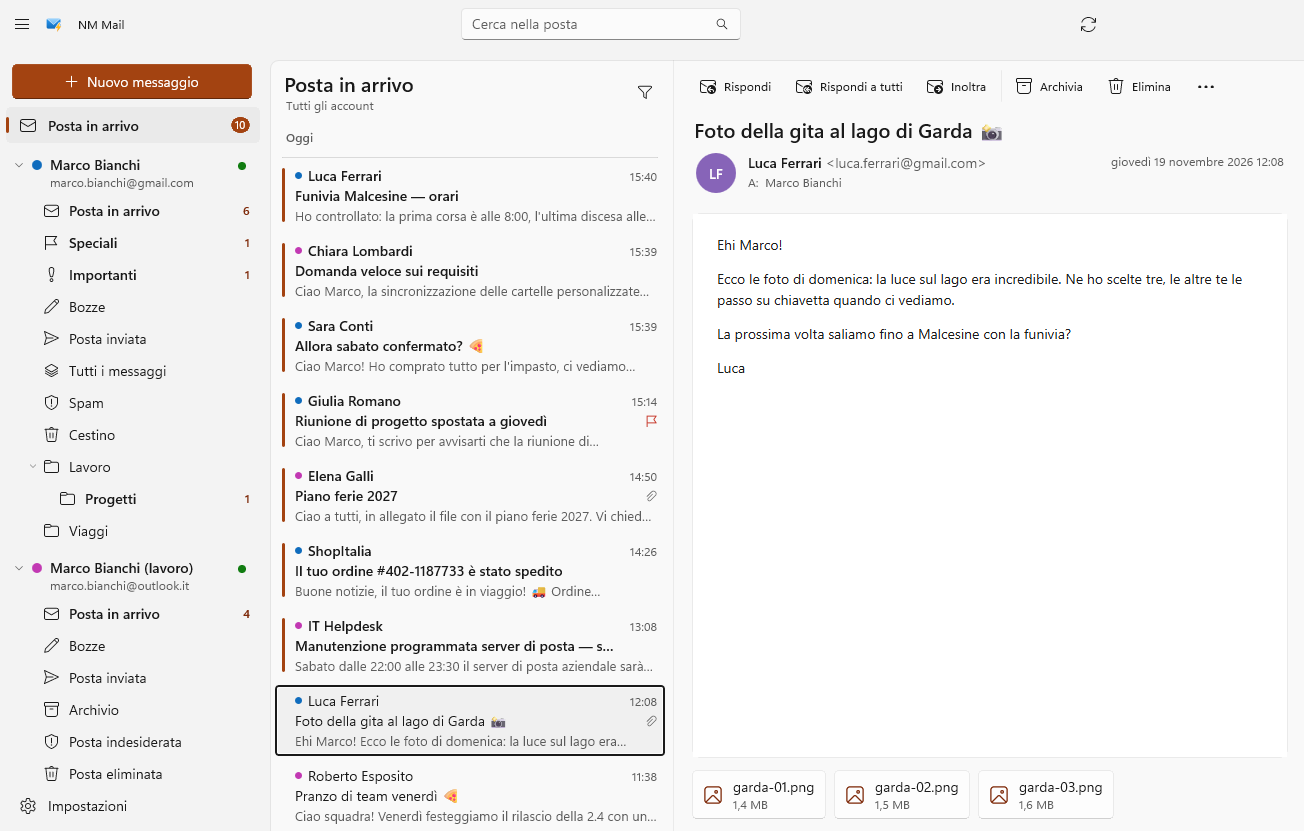
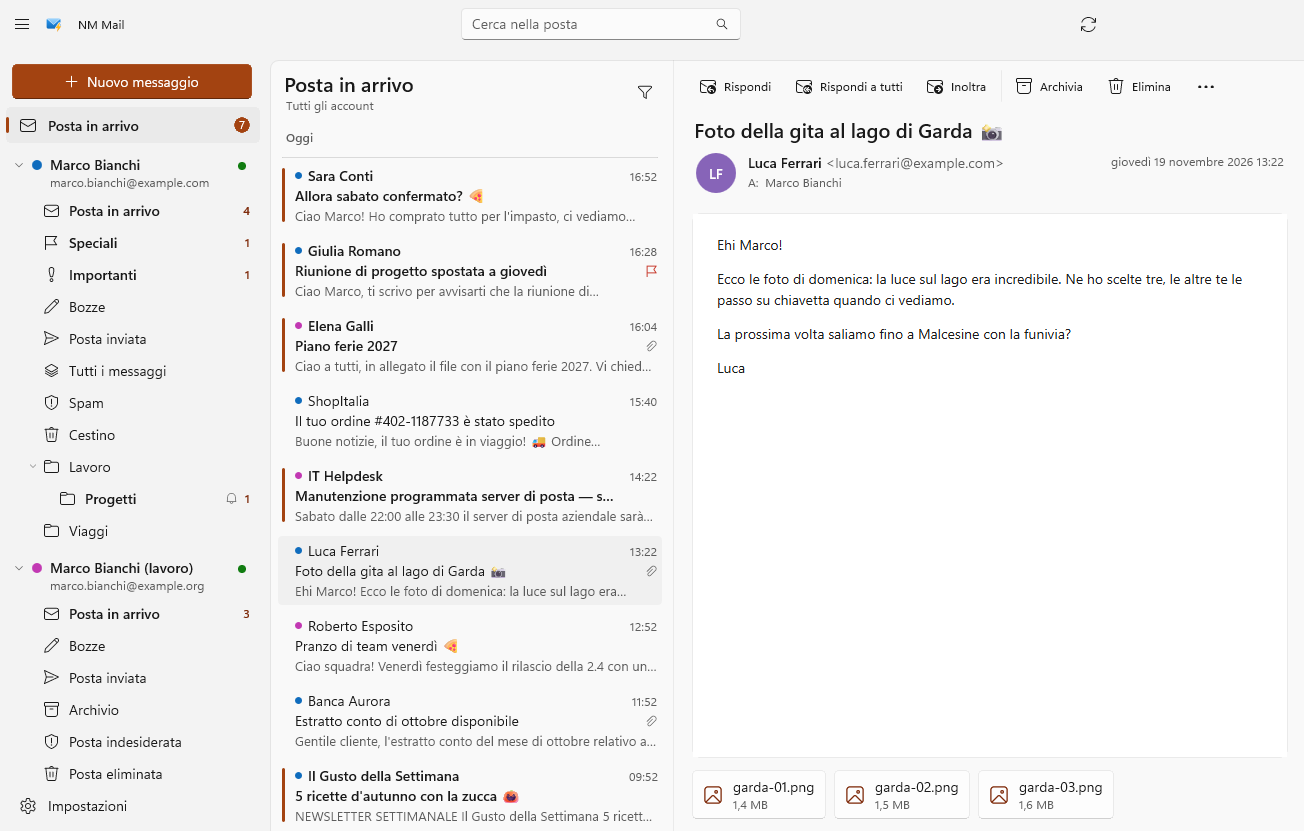
Licenza PolyForm Noncommercial 1.0.0 e preparazione alla pubblicazione
- LICENSE.md: PolyForm Noncommercial 1.0.0 (uso non commerciale consentito a
  tutti, uso commerciale riservato all'autore) con Required Notice
- Cargo: identificatore SPDX PolyForm-Noncommercial-1.0.0
- README: sezione Licenza e condizioni per i contributi
- Dati demo e test: persone fittizie su domini riservati agli esempi
  (example.com/.org/.net) invece di indirizzi gmail.com/outlook.it plausibili
- Screenshot del README rigenerati con i nuovi dati demo

diff --git a/apps/windows/NMMail/Services/Demo/DemoData.cs b/apps/windows/NMMail/Services/Demo/DemoData.cs
@@ -22,8 +22,8 @@ internal static class DemoData
 {
     public const long GmailId = 1;
     public const long OutlookId = 2;
-    public const string GmailAddress = "marco.bianchi@gmail.com";
-    public const string OutlookAddress = "marco.bianchi@outlook.it";
+    public const string GmailAddress = "marco.bianchi@example.com";
+    public const string OutlookAddress = "marco.bianchi@example.org";
     public const string OwnName = "Marco Bianchi";
 
     private static readonly CultureInfo It = CultureInfo.GetCultureInfo("it-IT");
@@ -97,7 +97,7 @@ internal static class DemoData
                 0.4, Seen: false, Flagged: true, Important: true),
             new(GmailId, 101, "ShopItalia", "ordini@shopitalia.example", "Il tuo ordine #402-1187733 è stato spedito",
                 "", 1.2, Seen: false, Remote: true, Html: OrderHtml()),
-            new(GmailId, 101, "Luca Ferrari", "luca.ferrari@gmail.com", "Foto della gita al lago di Garda 📸",
+            new(GmailId, 101, "Luca Ferrari", "luca.ferrari@example.com", "Foto della gita al lago di Garda 📸",
                 "Ehi Marco!\n\nEcco le foto di domenica: la luce sul lago era incredibile. Ne ho scelte tre, le altre te le passo su chiavetta quando ci vediamo.\n\nLa prossima volta saliamo fino a Malcesine con la funivia?\n\nLuca",
                 3.5, Seen: false, Attachments: ["garda-01.png", "garda-02.png", "garda-03.png"]),
             new(GmailId, 101, "Banca Aurora", "notifiche@bancaaurora.example", $"Estratto conto di {prevMonthName} disponibile",
@@ -105,7 +105,7 @@ internal static class DemoData
                 5, Attachments: [$"estratto-conto-{prevMonthName}.pdf"]),
             new(GmailId, 101, "Il Gusto della Settimana", "newsletter@gustosettimana.example", "5 ricette d'autunno con la zucca 🎃",
                 "", 7, Seen: false, Remote: true, Html: RecipesHtml()),
-            new(GmailId, 101, "Sara Conti", "sara.conti@outlook.it", "Cena di sabato?",
+            new(GmailId, 101, "Sara Conti", "sara.conti@example.org", "Cena di sabato?",
                 "Ciao Marco,\n\nsabato sera siamo da noi con Paolo e Francesca: ci sei? Pensavamo a una pizza fatta in casa verso le 20.\n\nFammi sapere entro giovedì così mi organizzo con l'impasto!\n\nSara",
                 26, Answered: true),
             new(GmailId, 101, "TrenoRapido", "biglietti@trenorapido.example", "Il tuo biglietto: Milano Centrale → Roma Termini",
@@ -114,9 +114,9 @@ internal static class DemoData
             new(GmailId, 101, "CodeHub", "notifications@codehub.example", "[nmmail] Nuova issue #42: notifiche duplicate dopo il resume",
                 "@marco-bianchi ha aperto una nuova issue in nmmail/nmmail:\n\n> Dopo il resume da Modern Standby arrivano due notifiche per la stessa mail.\n> Passi per riprodurre:\n> 1. sospendere il portatile con una IDLE attiva\n> 2. inviare una mail all'account\n> 3. riattivare il PC\n\nRispondi a questa e-mail o visualizza la issue su CodeHub.",
                 30, Seen: false, TextOnly: true),
-            new(GmailId, 101, "Francesca Ricci", "francesca.ricci@gmail.com", "Compleanno di Anna 🎂 — regalo di gruppo",
+            new(GmailId, 101, "Francesca Ricci", "francesca.ricci@example.com", "Compleanno di Anna 🎂 — regalo di gruppo",
                 "Ciao a tutti!\n\nPer il compleanno di Anna pensavamo a un buono per il corso di ceramica che desidera da mesi. Sono 25 euro a testa.\n\nChi partecipa mi scrive entro venerdì? Poi raccolgo io le quote.\n\nUn abbraccio,\nFrancesca",
-                50, Cc: "sara.conti@outlook.it, luca.ferrari@gmail.com"),
+                50, Cc: "sara.conti@example.org, luca.ferrari@example.com"),
             new(GmailId, 101, "Agenzia Viaggi Orizzonti", "prenotazioni@orizzontiviaggi.example", "Conferma prenotazione: Hotel Miradouro, Lisbona",
                 "Gentile Marco Bianchi,\n\nla tua prenotazione è confermata.\n\nHotel Miradouro ****, Lisbona\nCheck-in: venerdì dalle 14:00 — Check-out: lunedì entro le 11:00\nCamera doppia con vista sul Tago, colazione inclusa.\n\nIn allegato il voucher da presentare alla reception.\n\nBuon viaggio dallo staff di Orizzonti",
                 75, Attachments: ["voucher-hotel-lisbona.pdf"]),
@@ -126,7 +126,7 @@ internal static class DemoData
             new(GmailId, 101, "Comune di Valfiorita", "tributi@comune.valfiorita.example", "Promemoria: scadenza seconda rata TARI",
                 "Si ricorda che il 2 dicembre scade il pagamento della seconda rata della tassa sui rifiuti (TARI).\n\nIl modello di pagamento è disponibile nello sportello online del Comune.\n\nUfficio Tributi — Comune di Valfiorita",
                 9 * 24),
-            new(GmailId, 101, "Luca Ferrari", "luca.ferrari@gmail.com", "Re: Calcetto giovedì",
+            new(GmailId, 101, "Luca Ferrari", "luca.ferrari@example.com", "Re: Calcetto giovedì",
                 "Ci sono! Porto io il pallone nuovo.\n\nGiovedì alle 21:00, campo 2.\n\n> Allora confermiamo per giovedì?\n> Marco",
                 12 * 24, TextOnly: true),
             new(GmailId, 101, "Assicurazioni Sereno", "clienti@assicurazionisereno.example", "Rinnovo polizza auto: il tuo preventivo",
@@ -141,9 +141,9 @@ internal static class DemoData
 
             // ---- Gmail · other folders
             new(GmailId, 104, OwnName, GmailAddress, "Re: Cena di sabato?",
-                "Ciao Sara,\n\ncontate su di me! Porto il dolce: tiramisù va bene?\n\nMarco", 25, To: "sara.conti@outlook.it"),
+                "Ciao Sara,\n\ncontate su di me! Porto il dolce: tiramisù va bene?\n\nMarco", 25, To: "sara.conti@example.org"),
             new(GmailId, 104, OwnName, GmailAddress, "Calcetto giovedì",
-                "Ragazzi, allora confermiamo per giovedì alle 21?\n\nMarco", 12.5 * 24, To: "luca.ferrari@gmail.com"),
+                "Ragazzi, allora confermiamo per giovedì alle 21?\n\nMarco", 12.5 * 24, To: "luca.ferrari@example.com"),
             new(GmailId, 109, "Davide Moretti", "d.moretti@fornituregalli.example", $"Bozza contratto fornitura {nextYear}",
                 $"Buongiorno Marco,\n\nin allegato la bozza del contratto di fornitura per il {nextYear}. Le modifiche rispetto all'anno scorso sono evidenziate in giallo (articoli 4 e 9).\n\nResto a disposizione per una call.\n\nCordiali saluti,\nDavide Moretti\nForniture Galli S.r.l.",
                 6 * 24, Attachments: ["bozza-contratto.pdf"]),
@@ -171,7 +171,7 @@ internal static class DemoData
                 "Ciao squadra!\n\nVenerdì festeggiamo il rilascio della 2.4 con un pranzo alla pizzeria qui sotto, ore 13. Offre l'azienda!\n\nRoberto",
                 4),
             new(OutlookId, 201, "Sicurezza Account", "sicurezza@account-notify.example", "Nuovo accesso al tuo account da Windows",
-                "Abbiamo rilevato un nuovo accesso al tuo account marco.bianchi@outlook.it.\n\nDispositivo: Windows 11 — Milano, Italia\n\nSe sei stato tu, puoi ignorare questo messaggio. In caso contrario, modifica subito la password.",
+                "Abbiamo rilevato un nuovo accesso al tuo account marco.bianchi@example.org.\n\nDispositivo: Windows 11 — Milano, Italia\n\nSe sei stato tu, puoi ignorare questo messaggio. In caso contrario, modifica subito la password.",
                 24.5),
             new(OutlookId, 201, "Alessandro Marino", "a.marino@edilmarino.example", "Re: Preventivo ristrutturazione bagno",
                 "Buongiorno Marco,\n\ncome d'accordo le invio il preventivo dettagliato per la ristrutturazione del bagno: rifacimento impianti, sostituzione sanitari e piastrelle effetto pietra.\n\nI lavori potrebbero partire a gennaio, con una durata stimata di tre settimane.\n\nCordiali saluti,\nAlessandro Marino\nEdil Marino",
@@ -268,9 +268,9 @@ internal static class DemoData
 
     private static readonly (long Account, string Name, string Address, string Subject, string Body)[] s_incoming =
     [
-        (GmailId, "Sara Conti", "sara.conti@outlook.it", "Allora sabato confermato? 🍕", "Ciao Marco! Ho comprato tutto per l'impasto, ci vediamo sabato alle 20. Porta solo il buonumore!\n\nSara"),
+        (GmailId, "Sara Conti", "sara.conti@example.org", "Allora sabato confermato? 🍕", "Ciao Marco! Ho comprato tutto per l'impasto, ci vediamo sabato alle 20. Porta solo il buonumore!\n\nSara"),
         (OutlookId, "Chiara Lombardi", "chiara.lombardi@aurorasoftware.example", "Domanda veloce sui requisiti", "Ciao Marco,\n\nla sincronizzazione delle cartelle personalizzate rientra nella prima release o la spostiamo alla 2.5?\n\nGrazie,\nChiara"),
-        (GmailId, "Luca Ferrari", "luca.ferrari@gmail.com", "Funivia Malcesine — orari", "Ho controllato: la prima corsa è alle 8:00, l'ultima discesa alle 17:45. Ci organizziamo per domenica prossima?"),
+        (GmailId, "Luca Ferrari", "luca.ferrari@example.com", "Funivia Malcesine — orari", "Ho controllato: la prima corsa è alle 8:00, l'ultima discesa alle 17:45. Ci organizziamo per domenica prossima?"),
         (OutlookId, "IT Helpdesk", "helpdesk@aurorasoftware.example", "Manutenzione completata", "La manutenzione del server di posta è stata completata con successo. Tutti i servizi sono di nuovo disponibili.\n\nIT Helpdesk"),
         (GmailId, "ShopItalia", "ordini@shopitalia.example", "Il tuo pacco arriva oggi", "Il corriere consegnerà il tuo ordine #402-1187733 oggi tra le 14:00 e le 18:00."),
         (OutlookId, "Giulia Romano", "giulia.romano@studioromano.example", "Verbale riunione", "Ciao,\n\nin allegato trovate il verbale della riunione di oggi con le azioni concordate.\n\nGiulia"),
@@ -302,7 +302,7 @@ internal static class DemoData
         for (var i = 0; i < subjects.Length; i++)
         {
             var seed = new Seed(accountId, folderId, i % 2 == 0 ? "Servizio Clienti" : "Paolo Neri",
-                i % 2 == 0 ? "info@servizi.example" : "paolo.neri@gmail.com", subjects[i],
+                i % 2 == 0 ? "info@servizi.example" : "paolo.neri@example.com", subjects[i],
                 "Messaggio meno recente scaricato dal server su richiesta (oltre la finestra della cache locale).", 0);
             var m = Build(startId + i, seed, baseDate.AddDays(-(7 * (i + 1))));
             list.Add(m);

diff --git a/crates/nmmail-core/src/auth/oauth.rs b/crates/nmmail-core/src/auth/oauth.rs
@@ -436,10 +436,10 @@ mod tests {
     #[test]
     fn id_token_email() {
         let payload = URL_SAFE_NO_PAD.encode(
-            br#"{"email":"mario@gmail.com","name":"Mario Rossi","tid":"9188040d-6c67-4c5b-b112-36a304b66dad"}"#,
+            br#"{"email":"mario@example.com","name":"Mario Rossi","tid":"9188040d-6c67-4c5b-b112-36a304b66dad"}"#,
         );
         let id = identity_from_id_token(&format!("h.{payload}.s")).unwrap();
-        assert_eq!(id.email, "mario@gmail.com");
+        assert_eq!(id.email, "mario@example.com");
         assert_eq!(id.name.as_deref(), Some("Mario Rossi"));
         let (_, smtp) = servers(Provider::Outlook, &id);
         assert_eq!(smtp.host, "smtp-mail.outlook.com");

diff --git a/LICENSE.md b/LICENSE.md
@@ -1,0 +1,75 @@
+Required Notice: Copyright (c) 2026 Roberto Di Miceli (https://github.com/Legoraccio)
+
+# PolyForm Noncommercial License 1.0.0
+
+<https://polyformproject.org/licenses/noncommercial/1.0.0>
+
+## Acceptance
+
+In order to get any license under these terms, you must agree to them as both strict obligations and conditions to all your licenses.
+
+## Copyright License
+
+The licensor grants you a copyright license for the software to do everything you might do with the software that would otherwise infringe the licensor's copyright in it for any permitted purpose.  However, you may only distribute the software according to [Distribution License](#distribution-license) and make changes or new works based on the software according to [Changes and New Works License](#changes-and-new-works-license).
+
+## Distribution License
+
+The licensor grants you an additional copyright license to distribute copies of the software.  Your license to distribute covers distributing the software with changes and new works permitted by [Changes and New Works License](#changes-and-new-works-license).
+
+## Notices
+
+You must ensure that anyone who gets a copy of any part of the software from you also gets a copy of these terms or the URL for them above, as well as copies of any plain-text lines beginning with `Required Notice:` that the licensor provided with the software.  For example:
+
+> Required Notice: Copyright Yoyodyne, Inc. (http://example.com)
+
+## Changes and New Works License
+
+The licensor grants you an additional copyright license to make changes and new works based on the software for any permitted purpose.
+
+## Patent License
+
+The licensor grants you a patent license for the software that covers patent claims the licensor can license, or becomes able to license, that you would infringe by using the software.
+
+## Noncommercial Purposes
+
+Any noncommercial purpose is a permitted purpose.
+
+## Personal Uses
+
+Personal use for research, experiment, and testing for the benefit of public knowledge, personal study, private entertainment, hobby projects, amateur pursuits, or religious observance, without any anticipated commercial application, is use for a permitted purpose.
+
+## Noncommercial Organizations
+
+Use by any charitable organization, educational institution, public research organization, public safety or health organization, environmental protection organization, or government institution is use for a permitted purpose regardless of the source of funding or obligations resulting from the funding.
+
+## Fair Use
+
+You may have "fair use" rights for the software under the law. These terms do not limit them.
+
+## No Other Rights
+
+These terms do not allow you to sublicense or transfer any of your licenses to anyone else, or prevent the licensor from granting licenses to anyone else.  These terms do not imply any other licenses.
+
+## Patent Defense
+
+If you make any written claim that the software infringes or contributes to infringement of any patent, your patent license for the software granted under these terms ends immediately. If your company makes such a claim, your patent license ends immediately for work on behalf of your company.
+
+## Violations
+
+The first time you are notified in writing that you have violated any of these terms, or done anything with the software not covered by your licenses, your licenses can nonetheless continue if you come into full compliance with these terms, and take practical steps to correct past violations, within 32 days of receiving notice.  Otherwise, all your licenses end immediately.
+
+## No Liability
+
+***As far as the law allows, the software comes as is, without any warranty or condition, and the licensor will not be liable to you for any damages arising out of these terms or the use or nature of the software, under any kind of legal claim.***
+
+## Definitions
+
+The **licensor** is the individual or entity offering these terms, and the **software** is the software the licensor makes available under these terms.
+
+**You** refers to the individual or entity agreeing to these terms.
+
+**Your company** is any legal entity, sole proprietorship, or other kind of organization that you work for, plus all organizations that have control over, are under the control of, or are under common control with that organization.  **Control** means ownership of substantially all the assets of an entity, or the power to direct its management and policies by vote, contract, or otherwise.  Control can be direct or indirect.
+
+**Your licenses** are all the licenses granted to you for the software under these terms.
+
+**Use** means anything you do with the software requiring one of your licenses.

diff --git a/README.md b/README.md
@@ -87,3 +87,13 @@ Variabili utili: `NMMAIL_DATA_DIR` (cartella dati alternativa), `NMMAIL_LOG`
 ```
 
 In alternativa `installer\NMMail.iss` produce un setup con Inno Setup 6.
+
+## Licenza
+
+NM Mail è distribuito con licenza [PolyForm Noncommercial 1.0.0](LICENSE.md): puoi usarlo,
+studiarlo, modificarlo e ridistribuirlo **solo per scopi non commerciali** (uso personale,
+studio, ricerca, enti non profit). Ogni uso commerciale è riservato all'autore; per una licenza
+commerciale contatta [Roberto Di Miceli](https://github.com/Legoraccio).
+
+Inviando un contributo (pull request, patch) accetti che l'autore possa usarlo, modificarlo e
+rilicenziarlo, anche per scopi commerciali.
